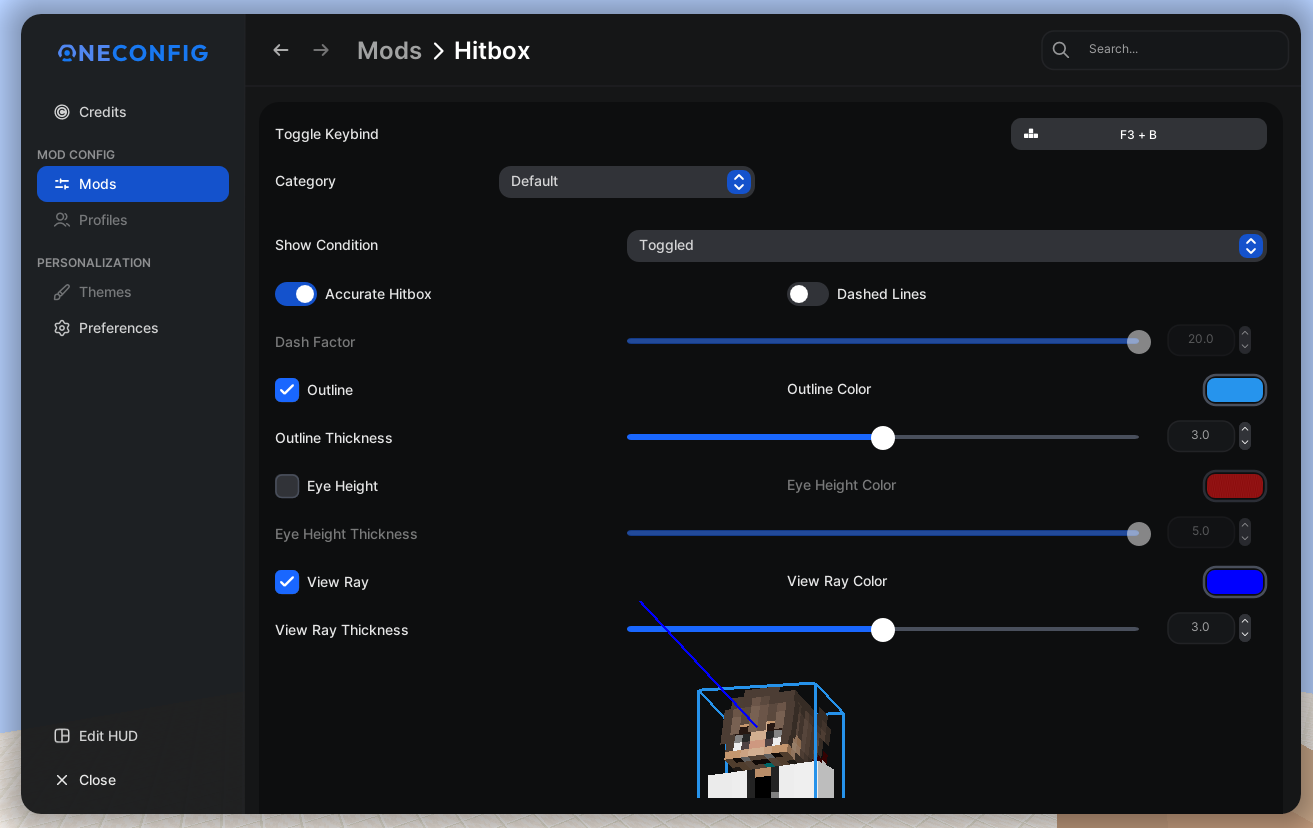
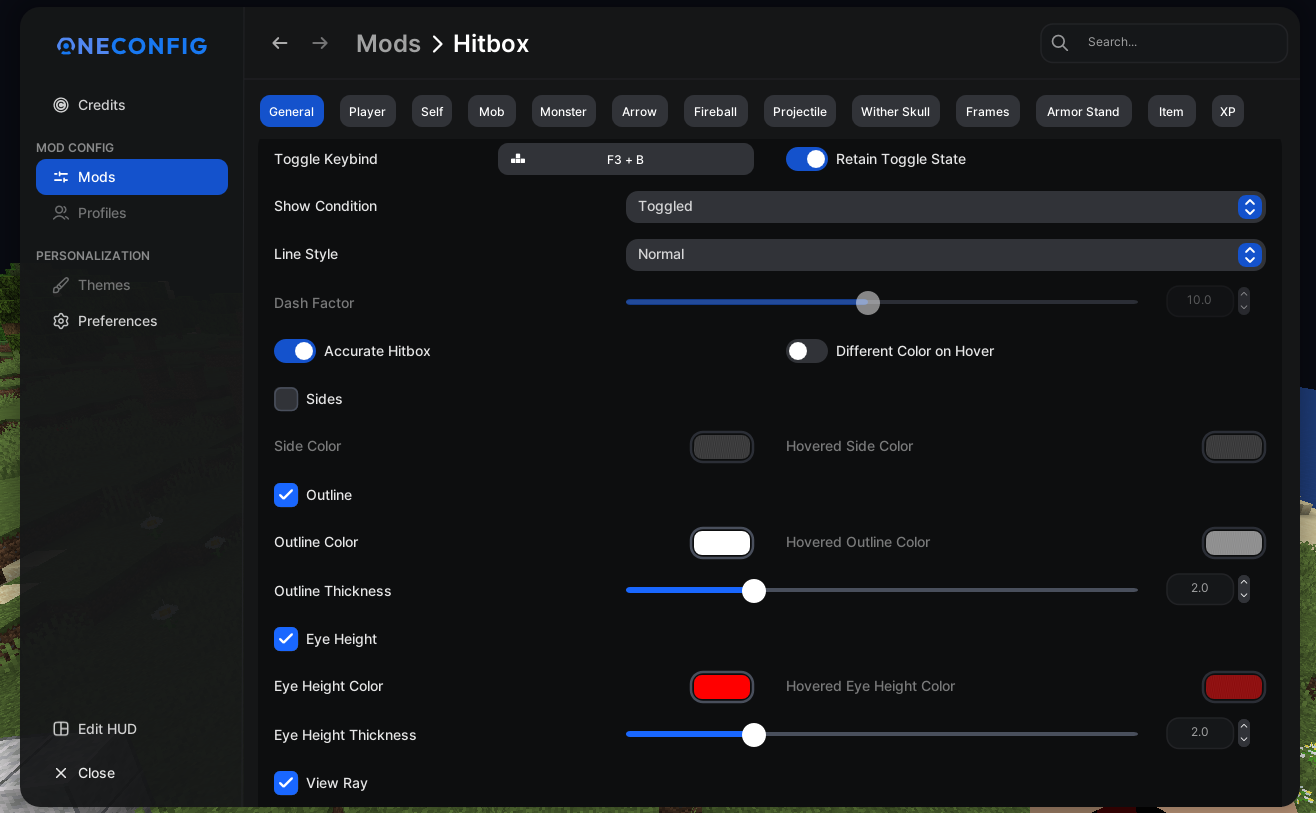
Updated README.md

diff --git a/README.md b/README.md
@@ -10,7 +10,9 @@ A hitbox modification mod
 
 - Toggle Keybind
 - Show Condition - Always / Hovered / Toggled / Never
-- Dashed Lines
+- Line Style - Normal / Proportioned / Dashed
+- Hovered Color
+- Sides
 - Outline
 - Eye Height
 - View Ray
@@ -18,4 +20,5 @@ A hitbox modification mod
 ## Gallery
 
 ![settings-page.png](images/settings-page.png)
+![settings-page-2.png](images/settings-page-2.png)
 
